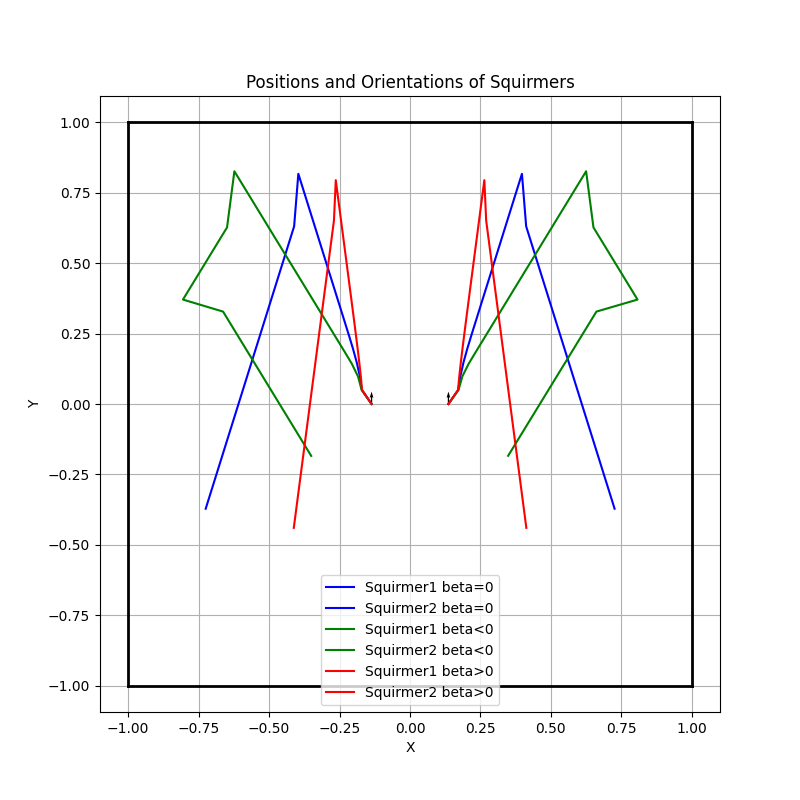
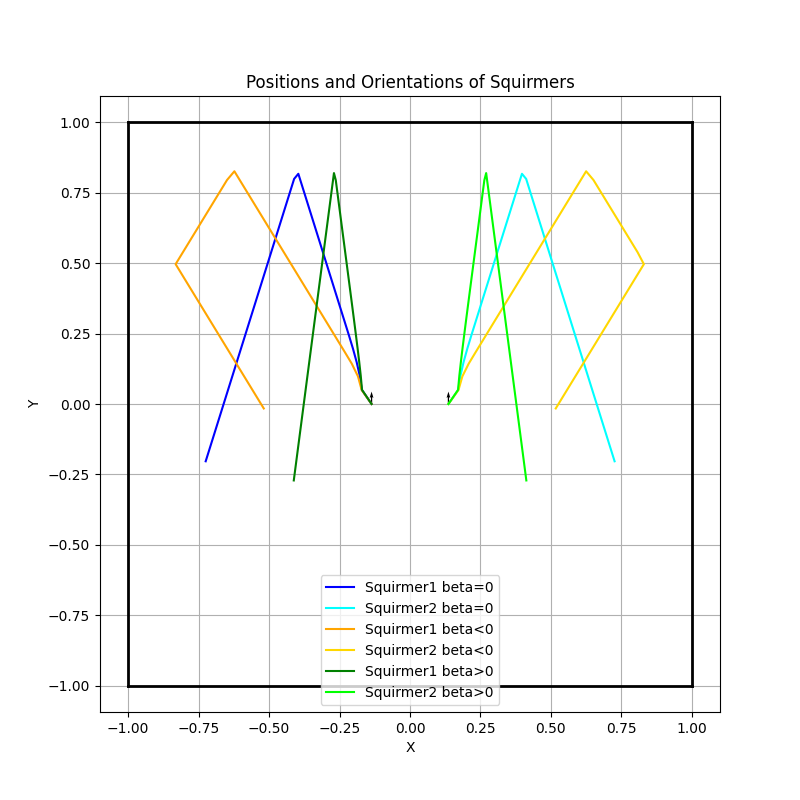
corrected reflective border and improved plot

diff --git a/Code/interactingsquirmers.py b/Code/interactingsquirmers.py
@@ -216,9 +216,9 @@ class InteractingSquirmers:
         diff = self.R - abs(x)
         if boundary == 1:
             #1 for the right border
-            x = x - diff
+            x = self.R - diff
         else:
-            x = x + diff
+            x = -self.R + diff
         return x, orient_new
     
     def ref_bound_y(self, choice, boundary):
@@ -231,9 +231,9 @@ class InteractingSquirmers:
         diff = self.R - abs(y)
         if boundary == 1:
             #1 for the up boundary
-            y = y - diff
+            y = self.R - diff
         else:
-            y = y + diff
+            y = -self.R + diff
         return y, orient_new
     
     def loop_time(self):
@@ -300,19 +300,19 @@ class InteractingSquirmers:
             #Compute torque exerted on squirmer by the wall
             gamma_w1 = 0
             gamma_w2 = 0
-            dist_sq1, dist_sq2 = self.distance_center()
-            if ((self.R - abs(self.squirmer1.x)) < 2**(1/6) * self.squirmer1.radius):
-                gamma_w1 += self.compute_torque_squirmer_border(1, dist_sq1)
-            if ((self.R - abs(self.squirmer1.y)) < 2**(1/6) * self.squirmer1.radius):
-                gamma_w1 += self.compute_torque_squirmer_border(1, dist_sq1)
-            if ((self.R - abs(self.squirmer2.x)) < 2**(1/6) * self.squirmer2.radius):
-                gamma_w2 += self.compute_torque_squirmer_border(2, dist_sq2)
-            if ((self.R - abs(self.squirmer2.y)) < 2**(1/6) * self.squirmer2.radius):
-                gamma_w2 += self.compute_torque_squirmer_border(2, dist_sq2)
+            # dist_sq1, dist_sq2 = self.distance_center()
+            # if ((self.R - abs(self.squirmer1.x)) < 2**(1/6) * self.squirmer1.radius):
+            #     gamma_w1 += self.compute_torque_squirmer_border(1, dist_sq1)
+            # if ((self.R - abs(self.squirmer1.y)) < 2**(1/6) * self.squirmer1.radius):
+            #     gamma_w1 += self.compute_torque_squirmer_border(1, dist_sq1)
+            # if ((self.R - abs(self.squirmer2.x)) < 2**(1/6) * self.squirmer2.radius):
+            #     gamma_w2 += self.compute_torque_squirmer_border(2, dist_sq2)
+            # if ((self.R - abs(self.squirmer2.y)) < 2**(1/6) * self.squirmer2.radius):
+            #     gamma_w2 += self.compute_torque_squirmer_border(2, dist_sq2)
 
-            #Update orientation
-            self.squirmer2.orientation += self.dt*(gamma_w1)
-            self.squirmer2.orientation += self.dt*(gamma_w2)
+            # #Update orientation
+            # self.squirmer2.orientation += self.dt*(gamma_w1)
+            # self.squirmer2.orientation += self.dt*(gamma_w2)
 
             #Reflective Boundary
             if ((self.R-self.squirmer1.x) < 2**(1/6)*self.squirmer1.radius):

diff --git a/Code/run.py b/Code/run.py
@@ -15,9 +15,9 @@ def plot_3squirmers(R, historyb0, historybinf, historybsup, filename, dir='graph
     plt.plot([R, R], [-R, R], 'k-', linewidth=2)
 
     histories = [(historyb0, 'beta=0'), (historybinf, 'beta<0'), (historybsup, 'beta>0')]
-    colors = ['blue', 'green', 'red']
+    colors = [('blue','cyan'), ('orange','gold'), ('green','lime')]
 
-    for history, label in zip(histories, colors):
+    for history, (color1,color2) in zip(histories, colors):
         squirmer1_x, squirmer1_y, squirmer1_orient = [], [], []
         squirmer2_x, squirmer2_y, squirmer2_orient = [], [], []
 
@@ -29,8 +29,8 @@ def plot_3squirmers(R, historyb0, historybinf, historybsup, filename, dir='graph
             squirmer2_y.append(step[3])
             squirmer2_orient.append(step[5])
         
-        plt.plot(squirmer1_x, squirmer1_y, label=f'Squirmer1 {history[1]}', color=label)
-        plt.plot(squirmer2_x, squirmer2_y, label=f'Squirmer2 {history[1]}', color=label)
+        plt.plot(squirmer1_x, squirmer1_y, label=f'Squirmer1 {history[1]}', color=color1)
+        plt.plot(squirmer2_x, squirmer2_y, label=f'Squirmer2 {history[1]}', color=color2)
 
     #Plot initial orientations
     plt.quiver(squirmer2_x[0], squirmer2_y[0], np.cos(squirmer2_orient[0]), np.sin(squirmer2_orient[0]), color='black', scale=50, width=0.002)
